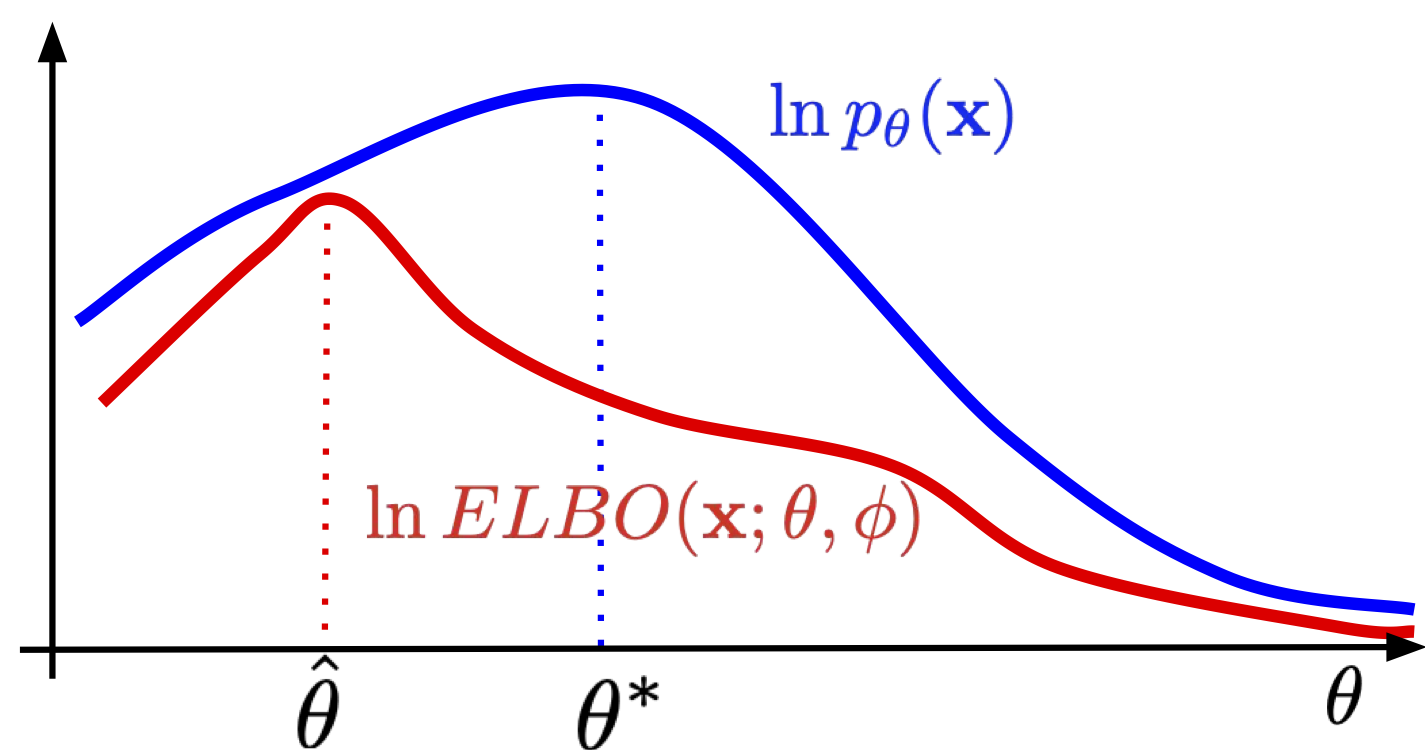
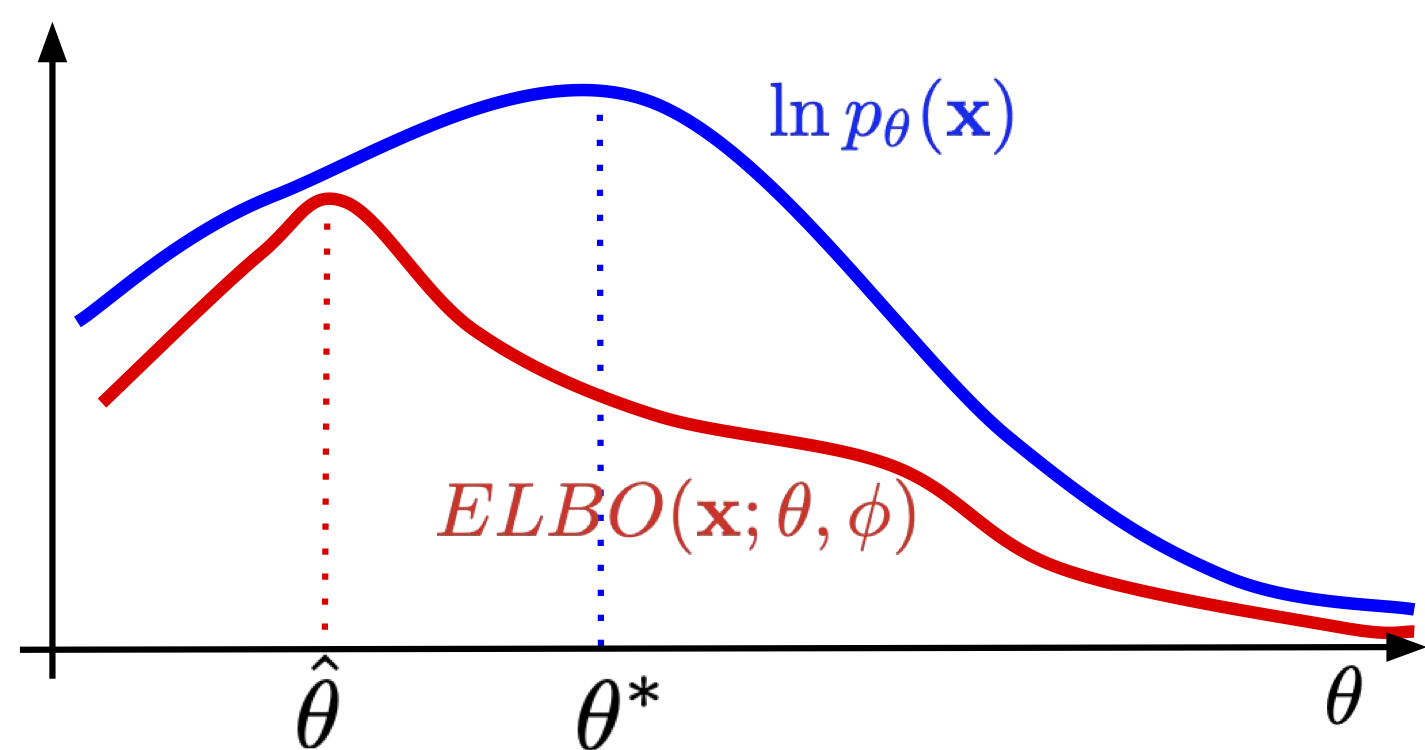
New fig, typos, added ref

Changed region(s): [[0.247, 0.644, 0.6484, 0.736]]

diff --git a/blog/4/4_VAE.html b/blog/4/4_VAE.html
@@ -103,7 +103,7 @@ $$
 \mathbf{x} = \mathbf{W} \mathbf{z} + \mathbf{b} + \varepsilon,
 $$<p>where $\varepsilon \sim \mathcal{N}(\varepsilon|0, \sigma^{2}\mathbf{I})$. The propery of the Gaussian distribution yields:</p>
 $$
-p(\mathbf{x} | \mathbf{z}) = \mathcal{N}\left(\mathbf{x}|\mathbf{W} \mathbf{z} + \mathbf{b}, \sigma \mathbf{I}\right) .
+p(\mathbf{x} | \mathbf{z}) = \mathcal{N}\left(\mathbf{x}|\mathbf{W} \mathbf{z} + \mathbf{b}, \sigma^{2} \mathbf{I}\right) .
 $$<p>This model is known as the <strong>probabilistic PCA</strong> (pPCA) (Tipping &amp; Bishop, 1999).</p>
 <p>Then, we can take advantage of properties of a linear combination of two vectors of normally-distributed random variables to calculate the integral explicitely (Bishop, 2006):
 \begin{align}
@@ -148,8 +148,8 @@ p(\mathbf{x}) &amp;= \int p(\mathbf{x} | \mathbf{z})\ p(\mathbf{z})\ \mathrm{d} 
 <p>If we consider an <strong>amortized variational posterior</strong>, namely, $q_{\phi}(\mathbf{z} | \mathbf{x})$ instead of $q_{\phi}(\mathbf{z})$ for each $\mathbf{x}$, then we get:</p>
 $$
 \ln p(\mathbf{x}) \geq \mathbb{E}_{\mathbf{z}\sim q_{\phi}(\mathbf{z} | \mathbf{x})} \left[ \ln p(\mathbf{x} | \mathbf{z}) \right] - \mathbb{E}_{\mathbf{z}\sim q_{\phi}(\mathbf{z}|\mathbf{x})} \left[ \ln q_{\phi}(\mathbf{z} | \mathbf{x}) -  \ln p(\mathbf{z}) \right] .
-$$<p>Amortization could be extremely useful, because we train a single model (e.g., a neural network with some weights), and it returns parameters of a distribution for given input. From now on, we will assume that we use amortizized variational posteriors, however, please remember that we don't need to do that!</p>
-<p>As a result, we obtain an auto-encoder-like model, with a stochastic encoder, $q_{\phi}(\mathbf{z})$, and a stochastic decoder, $p(\mathbf{x} | \mathbf{z})$. We use <em>stochastic</em> to highlight that the encoder and the decoder are probability distributions, and to stress out a difference with a deterministic auto-encoder. Ths model, with the amortized variational posterior, is called a <strong>Variational Auto-Encoder</strong> (Kingma &amp; Welling, 2013; Rezende et al., 2014). The lower-bound of the log-likelihood function is called the Evidence LOwer Bound (<strong>ELBO</strong>).</p>
+$$<p>Amortization could be extremely useful, because we train a single model (e.g., a neural network with some weights), and it returns parameters of a distribution for given input. From now on, we will assume that we use amortized variational posteriors, however, please remember that we don't need to do that! Please take a look at (Kim et al., 2018) where a semi-amortized variational inference is considered.</p>
+<p>As a result, we obtain an auto-encoder-like model, with a stochastic encoder, $q_{\phi}(\mathbf{z} | \mathbf{x})$, and a stochastic decoder, $p(\mathbf{x} | \mathbf{z})$. We use <em>stochastic</em> to highlight that the encoder and the decoder are probability distributions, and to stress out a difference with a deterministic auto-encoder. Ths model, with the amortized variational posterior, is called a <strong>Variational Auto-Encoder</strong> (Kingma &amp; Welling, 2013; Rezende et al., 2014). The lower-bound of the log-likelihood function is called the Evidence LOwer Bound (<strong>ELBO</strong>).</p>
 <p>The first part of the ELBO, $\mathbb{E}_{\mathbf{z}\sim q_{\phi}(\mathbf{z} | \mathbf{x})} \left[ \ln p(\mathbf{x} | \mathbf{z}) \right]$, is referred to as the (negative) <strong>reconstruction error</strong>, because $\mathbf{x}$ is encoded to $\mathbf{z}$ and then decoded back. The second part of the ELBO, $\mathbb{E}_{\mathbf{z}\sim q_{\phi}(\mathbf{z}|\mathbf{x})} \left[ \ln q_{\phi}(\mathbf{z} | \mathbf{x}) -  \ln p(\mathbf{z}) \right]$, could be seen as a <strong>regularizer</strong> and it coincides with the Kullback-Leibler divergence (KL). Please keep in mind that for a more complex models (e.g., hierarchical models), the regularizer(s) may not be interpreted as the KL term. Therefore, we prefer to use the term <em>the regularizer</em> because it is more general.</p>
 
 </div>
@@ -182,9 +182,9 @@ $$<p>The last component, $KL \left[ q_{\phi}(\mathbf{z}|\mathbf{x}) \|p(\mathbf{
 <div class="cell border-box-sizing text_cell rendered"><div class="prompt input_prompt">
 </div><div class="inner_cell">
 <div class="text_cell_render border-box-sizing rendered_html">
-<p><strong>Components of VAEs</strong> Let us wrap up what we know right now. First of all, we consider a class of amortized variational posteriors $\{q_{\phi}(\mathbf{z}|\mathbf{x})\}$ that approximate the true posterior $p(\mathbf{z}|\mathbf{x})$. We can see them as <strong>stochastic encoders</strong>. Second, the conditional likelihood $p(\mathbf{x}|\mathbf{z})$ could be seen as a <strong>stochastic decoder</strong>. Third, the last component, $p(\mathbf{z})$, is the marginal distribution, also referred to as a <strong>prior</strong>. Lastly, the objective is the ELBO, a lower bound to the log-likelihood function:</p>
+<p><strong>Components of VAEs</strong> Let us wrap up what we know right now. First of all, we consider a class of amortized variational posteriors $\{q_{\phi}(\mathbf{z}|\mathbf{x})\}_{\phi}$ that approximate the true posterior $p(\mathbf{z}|\mathbf{x})$. We can see them as <strong>stochastic encoders</strong>. Second, the conditional likelihood $p(\mathbf{x}|\mathbf{z})$ could be seen as a <strong>stochastic decoder</strong>. Third, the last component, $p(\mathbf{z})$, is the marginal distribution, also referred to as a <strong>prior</strong>. Lastly, the objective is the ELBO, a lower bound to the log-likelihood function:</p>
 $$
-\ln p(\mathbf{x}) \geq \mathbb{E}_{\mathbf{z}\sim q_{\phi}(\mathbf{z})} \left[ \ln p(\mathbf{x} | \mathbf{z}) \right] - \mathbb{E}_{\mathbf{z}\sim q_{\phi}(\mathbf{z}|\mathbf{x})} \left[ \ln q_{\phi}(\mathbf{z}) -  \ln p(\mathbf{z}) \right] .
+\ln p(\mathbf{x}) \geq \mathbb{E}_{\mathbf{z}\sim q_{\phi}(\mathbf{z}|\mathbf{x})} \left[ \ln p(\mathbf{x} | \mathbf{z}) \right] - \mathbb{E}_{\mathbf{z}\sim q_{\phi}(\mathbf{z}|\mathbf{x})} \left[ \ln q_{\phi}(\mathbf{z}|\mathbf{x}) -  \ln p(\mathbf{z}) \right] .
 $$<p>There are two questions left to get the full picture of the VAEs:</p>
 <ol>
 <li>How to parameterize the distributions?</li>
@@ -262,7 +262,7 @@ $$<p>So as you can see, the whole math boils down to a relatively simple learnin
 </div>
 <div class="cell border-box-sizing code_cell rendered">
 <div class="input">
-<div class="prompt input_prompt">In&nbsp;[&nbsp;]:</div>
+<div class="prompt input_prompt"></div>
 <div class="inner_cell">
     <div class="input_area">
 <div class=" highlight hl-ipython3"><pre><span></span><span class="k">class</span> <span class="nc">Encoder</span><span class="p">(</span><span class="n">nn</span><span class="o">.</span><span class="n">Module</span><span class="p">):</span>
@@ -339,7 +339,7 @@ $$<p>So as you can see, the whole math boils down to a relatively simple learnin
 </div>
 <div class="cell border-box-sizing code_cell rendered">
 <div class="input">
-<div class="prompt input_prompt">In&nbsp;[&nbsp;]:</div>
+<div class="prompt input_prompt"></div>
 <div class="inner_cell">
     <div class="input_area">
 <div class=" highlight hl-ipython3"><pre><span></span><span class="k">class</span> <span class="nc">Decoder</span><span class="p">(</span><span class="n">nn</span><span class="o">.</span><span class="n">Module</span><span class="p">):</span>
@@ -466,7 +466,7 @@ $$<p>So as you can see, the whole math boils down to a relatively simple learnin
 </div>
 <div class="cell border-box-sizing code_cell rendered">
 <div class="input">
-<div class="prompt input_prompt">In&nbsp;[&nbsp;]:</div>
+<div class="prompt input_prompt"></div>
 <div class="inner_cell">
     <div class="input_area">
 <div class=" highlight hl-ipython3"><pre><span></span><span class="k">class</span> <span class="nc">VAE</span><span class="p">(</span><span class="n">nn</span><span class="o">.</span><span class="n">Module</span><span class="p">):</span>
@@ -509,7 +509,7 @@ $$<p>So as you can see, the whole math boils down to a relatively simple learnin
 </div>
 <div class="cell border-box-sizing code_cell rendered">
 <div class="input">
-<div class="prompt input_prompt">In&nbsp;[&nbsp;]:</div>
+<div class="prompt input_prompt"></div>
 <div class="inner_cell">
     <div class="input_area">
 <div class=" highlight hl-ipython3"><pre><span></span><span class="c1"># Examples of neural networks used for parameterizing the encoder and the decoder.</span>
@@ -631,6 +631,7 @@ $$<p>where $\mathbf{z}_{k} \sim q_{\phi}(\mathbf{z}_{k}|\mathbf{x})$. Notice tha
 <p>(Ilse et al., 2020) Ilse, M., Tomczak, J. M., Louizos, C., &amp; Welling, M. (2020). DIVA: Domain invariant variational autoencoders. In Medical Imaging with Deep Learning (pp. 322-348). PMLR.</p>
 <p>(Jin et al., 2018) Jin, W., Barzilay, R., &amp; Jaakkola, T. (2018). Junction Tree Variational Autoencoder for Molecular Graph Generation. In International Conference on Machine Learning (pp. 2323-2332).</p>
 <p>(Jordan et al., 1999) Jordan, M. I., Ghahramani, Z., Jaakkola, T. S., &amp; Saul, L. K. (1999). An introduction to variational methods for graphical models. Machine learning, 37(2), 183-233.</p>
+<p>(Kim et al., 2018) Kim, Y., Wiseman, S., Miller, A., Sontag, D., &amp; Rush, A. (2018). Semi-amortized variational autoencoders. In International Conference on Machine Learning (pp. 2678-2687). PMLR.</p>
 <p>(Kingma &amp; Welling, 2013) Kingma, D. P., &amp; Welling, M. (2013). Auto-encoding variational bayes. arXiv preprint arXiv:1312.6114.</p>
 <p>(Kingma &amp; Welling, 2014) Kingma, D., &amp; Welling, M. (2014). Efficient gradient-based inference through transformations between bayes nets and neural nets. In International Conference on Machine Learning (pp. 1782-1790).</p>
 <p>(Kingma et al., 2014) Kingma, D. P., Mohamed, S., Jimenez Rezende, D., &amp; Welling, M. (2014). Semi-supervised learning with deep generative models. Advances in neural information processing systems, 27, 3581-3589.</p>
